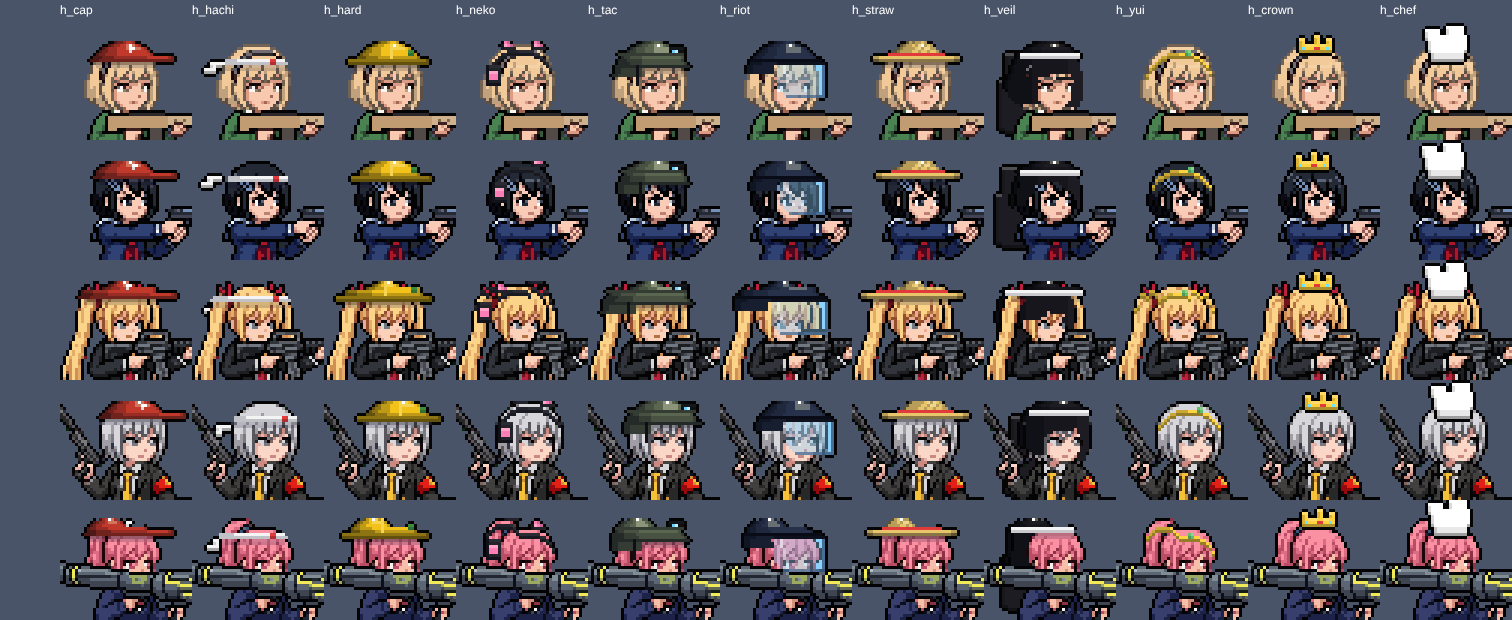
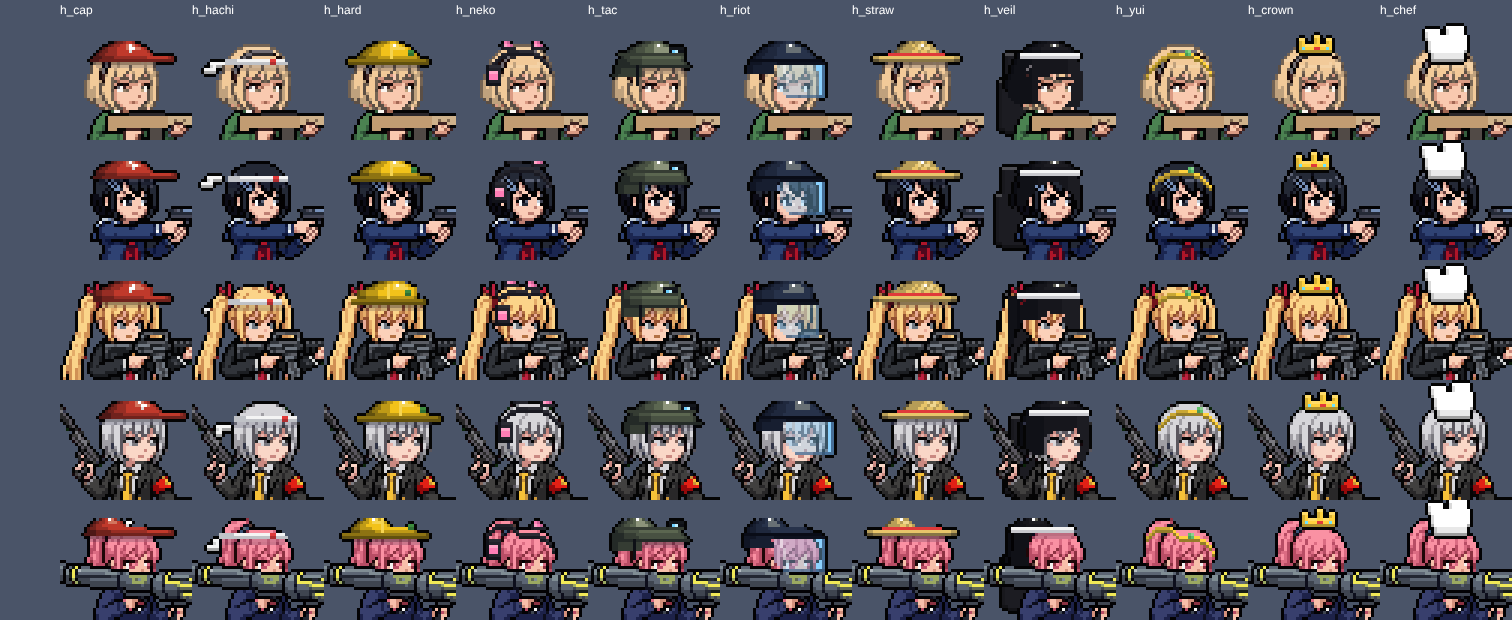
Keep Haru's twin tails outside head gear
Head gear for a character with an art.skull setting is sized to the skull
found from the crown, so twin tails and their ribbons hang outside the hat
instead of being swallowed by it.

Claude-Session: https://claude.ai/code/session_01LHS4PH5ZdZJ1J4txVhAsXt

diff --git a/game/houkago-deadline.html b/game/houkago-deadline.html
@@ -182,7 +182,7 @@ const CHARS = {
     uniq:{ name:'鷹の目', desc:'デッドアイの威力 +15%' } },
   haru: { id:'haru', name:'日向 ハル', short:'ハル', role:'制圧射撃 / 突撃担当', main:'LMG', sub:'AR',
     hp:150, spd:1.03, color:'#ffcf5a', w0:'lmg0.0',
-    art:{ rc:[['body',['31343a','1c1e22'],20,38,11,26],['body',['31343a','1c1e22'],29,38,27,34],['skirt',['717882','5b5d64','47494f','31343a'],37,46,12,33],['sock',['31343a','1c1e22'],46,58],['shoe',['634338','3e261c'],58,62],['leg',['fbd1b9','e9ac96','ca8378'],44,47,13,32]], tf:[-1,-6], img:'haru', cx:23, feet:63, legY:46, hx:9, hy:1, back:[3,-1], idle:0, shoot:[2,3], mz:[62,21] },
+    art:{ rc:[['body',['31343a','1c1e22'],20,38,11,26],['body',['31343a','1c1e22'],29,38,27,34],['skirt',['717882','5b5d64','47494f','31343a'],37,46,12,33],['sock',['31343a','1c1e22'],46,58],['shoe',['634338','3e261c'],58,62],['leg',['fbd1b9','e9ac96','ca8378'],44,47,13,32]], tf:[-1,-6], skull:[-5,6], img:'haru', cx:23, feet:63, legY:46, hx:9, hy:1, back:[3,-1], idle:0, shoot:[2,3], mz:[62,21] },
     prof:'金髪ツインテールの元ソフトボール部エース。考えるより先に引き金を引く。弟思いで、コロッケが大好物。',
     passive:'タフネス：被ダメージ-15%・近距離の与ダメージ+15%',
     skill:{ id:'charge', name:'ブレイクチャージ', cd:20, desc:'無敵の突進で敵をなぎ倒して気絶させ、止まった場所で衝撃波。その後7秒間、被ダメージ半減・与ダメージ+35%・弾薬全回復' },
@@ -1042,7 +1042,7 @@ const GFX = (() => {
     for (const [x, y] of ol) { const i = at(x, y); d[i] = OL[0]; d[i + 1] = OL[1]; d[i + 2] = OL[2]; d[i + 3] = 255; }
   }
   /* ---- head geometry of one 64x64 frame: top contour and per-row width of the head around the anchor (ax,ay) ---- */
-  function headGeo(op, ax, ay) {
+  function headGeo(op, ax, ay, sk) {
     const X0 = Math.max(0, ax - 5), X1 = Math.min(63, ax + 33), Y0 = Math.max(0, ay - 8);
     const topY = new Int16Array(64).fill(99);
     for (let x = X0; x <= X1; x++) for (let y = Y0; y <= ay + 14; y++) if (op(x, y)) { topY[x] = y; break; }
@@ -1055,16 +1055,22 @@ const GFX = (() => {
       return best || [hc, hc - 1];
     };
     const s3 = span(top + 3); hc = (s3[0] + s3[1]) >> 1;
+    if (sk) {   // big hair (twin tails): the skull is a fixed width around the crown, the first long run from the top; tails and their ribbons stay outside
+      for (let y = Y0; y <= ay + 8; y++) { let bl = 0, bx = 0; for (let x = X0; x <= X1; x++) { if (!op(x, y)) continue; let e = x; while (e + 1 <= X1 && op(e + 1, y)) e++; if (e - x + 1 > bl) { bl = e - x + 1; bx = x; } x = e; }
+        if (bl >= 5) { const x0 = bx + sk[0], x1 = bx + bl - 1 + sk[1]; top = y; hc = (x0 + x1) >> 1;
+          for (let x = 0; x < 64; x++) topY[x] = x < x0 || x > x1 ? 99 : Math.max(topY[x], y);
+          const sp = span; return { top, topY, hc, span: yy => { const r = sp(yy); return [Math.max(r[0], x0), Math.min(r[1], x1)]; } }; } }
+    }
     return { top, topY, span, hc };
   }
   /* ---- head gear: helmets, hats and bands painted over the hair, following the head's own outline,
      shaded from the upper front, with a shadow under the brim; hair under a hat is pressed flat ---- */
-  function dressHead(d, W, ox, M, A, ax, ay) {
+  function dressHead(d, W, ox, M, A, ax, ay, sk) {
     const sty = A && A.hsty; if (!sty) return;
     const N = 64, added = new Uint8Array(N * N), hat = new Uint8Array(N * N);
     const inb = (x, y) => x >= 0 && x < N && y >= 0 && y < N, at = (x, y) => (y * W + ox + x) * 4;
     const op = (x, y) => inb(x, y) && d[at(x, y) + 3] > 127;
-    const g = headGeo(op, ax, ay); if (!g) return;
+    const g = headGeo(op, ax, ay, sk); if (!g) return;
     const put = (x, y, c, a) => { if (!inb(x, y) || !c) return; const i = at(x, y); if (d[i + 3] < 128) added[y * N + x] = 1; hat[y * N + x] = 1;
       if (a != null && d[i + 3] > 127) { d[i] = d[i] + (c[0] - d[i]) * a; d[i + 1] = d[i + 1] + (c[1] - d[i + 1]) * a; d[i + 2] = d[i + 2] + (c[2] - d[i + 2]) * a; return; }
       d[i] = c[0]; d[i + 1] = c[1]; d[i + 2] = c[2]; d[i + 3] = 255; };
@@ -1159,10 +1165,12 @@ const GFX = (() => {
     for (const [x, y] of ol) { const i = at(x, y); d[i] = OL[0]; d[i + 1] = OL[1]; d[i + 2] = OL[2]; d[i + 3] = 255; }
   }
   /* small head items that rest on the hair (ears, caps, crowns, ribbons): lowered or raised so their base sits on this frame's crown */
-  function sitShift(op, A, ax, ay) {
+  function sitShift(op, A, ax, ay, sk) {
     if (!A || !A.sit || !A.ov || !A.ov.hf) return 0;
     const rs = A.ov.hf; let x0 = 99, x1 = -99, b = -99; rs.forEach(r => { x0 = Math.min(x0, r[0]); x1 = Math.max(x1, r[0] + r[2] - 1); b = Math.max(b, r[1] + r[3] - 1); });
-    let t = 99; for (let x = ax + x0; x <= ax + x1; x++) for (let y = Math.max(0, ay - 10); y <= ay + 14; y++) if (op(x, y)) { t = Math.min(t, y); break; }
+    const g = sk ? headGeo(op, ax, ay, sk) : null;
+    let t = 99; if (g) { for (let x = ax + x0; x <= ax + x1; x++) t = Math.min(t, g.topY[x]); if (t > 60) t = g.top; }
+    else for (let x = ax + x0; x <= ax + x1; x++) for (let y = Math.max(0, ay - 10); y <= ay + 14; y++) if (op(x, y)) { t = Math.min(t, y); break; }
     return t > 60 ? 0 : t - ay + (A.sit | 0) - b;
   }
   /* volume for flat overlay rects: lit top edge, shaded bottom edge */
@@ -1246,7 +1254,7 @@ const GFX = (() => {
           if (skin.has(c)) SK[j] = skin.get(c);
         }
         dressFrame(d, W, f * 64, { J, K, SK }, b, a.tor);
-        dressHead(d, W, f * 64, { SK }, hA, a.hx, a.hy);
+        dressHead(d, W, f * 64, { SK }, hA, a.hx, a.hy, a.skull);
       }
     }
     x.putImageData(im, 0, 0); return cv;
@@ -1259,7 +1267,7 @@ const GFX = (() => {
     const hb = [], hf = [], tb = [], tf = [];
     const HA = ARMOR[eq.head] || {}, hHf = HA.ov && HA.ov.hf, hdy = [];
     if (HA.sit) { const ic = mk(im.width, im.height), ix = ic.getContext('2d', { willReadFrequently: true }); ix.drawImage(im, 0, 0); const id = ix.getImageData(0, 0, im.width, im.height).data, iw = im.width;
-      for (let s2 = 0; s2 * 64 < iw || s2 === 0; s2++) hdy[s2] = sitShift((x, y) => x >= 0 && x < 64 && s2 * 64 + x < iw && y >= 0 && y < im.height && id[(y * iw + s2 * 64 + x) * 4 + 3] > 127, HA, a.hx - (sk && !sk.art ? sk.dx : 0), a.hy - (sk && !sk.art ? sk.dy : 0)); }
+      for (let s2 = 0; s2 * 64 < iw || s2 === 0; s2++) hdy[s2] = sitShift((x, y) => x >= 0 && x < 64 && s2 * 64 + x < iw && y >= 0 && y < im.height && id[(y * iw + s2 * 64 + x) * 4 + 3] > 127, HA, a.hx - (sk && !sk.art ? sk.dx : 0), a.hy - (sk && !sk.art ? sk.dy : 0), sk ? null : a.skull); }
     ['acc', 'body', 'legs', 'head'].forEach(sl => { const ov = (ARMOR[eq[sl]] || {}).ov; if (!ov || (sl === 'body' && ARMOR[eq[sl]].sty)) return; if (ov.hb) hb.push(ov.hb); if (ov.hf && !(sl === 'head' && HA.hsty && !sk)) hf.push(ov.hf); if (ov.tb) tb.push(ov.tb); if (ov.tf) tf.push(ov.tf); });
     // jacket mask: torso decorations are only painted onto the character's own jacket / skirt pixels, never over the gun or arms held in front
     let mask = null;
